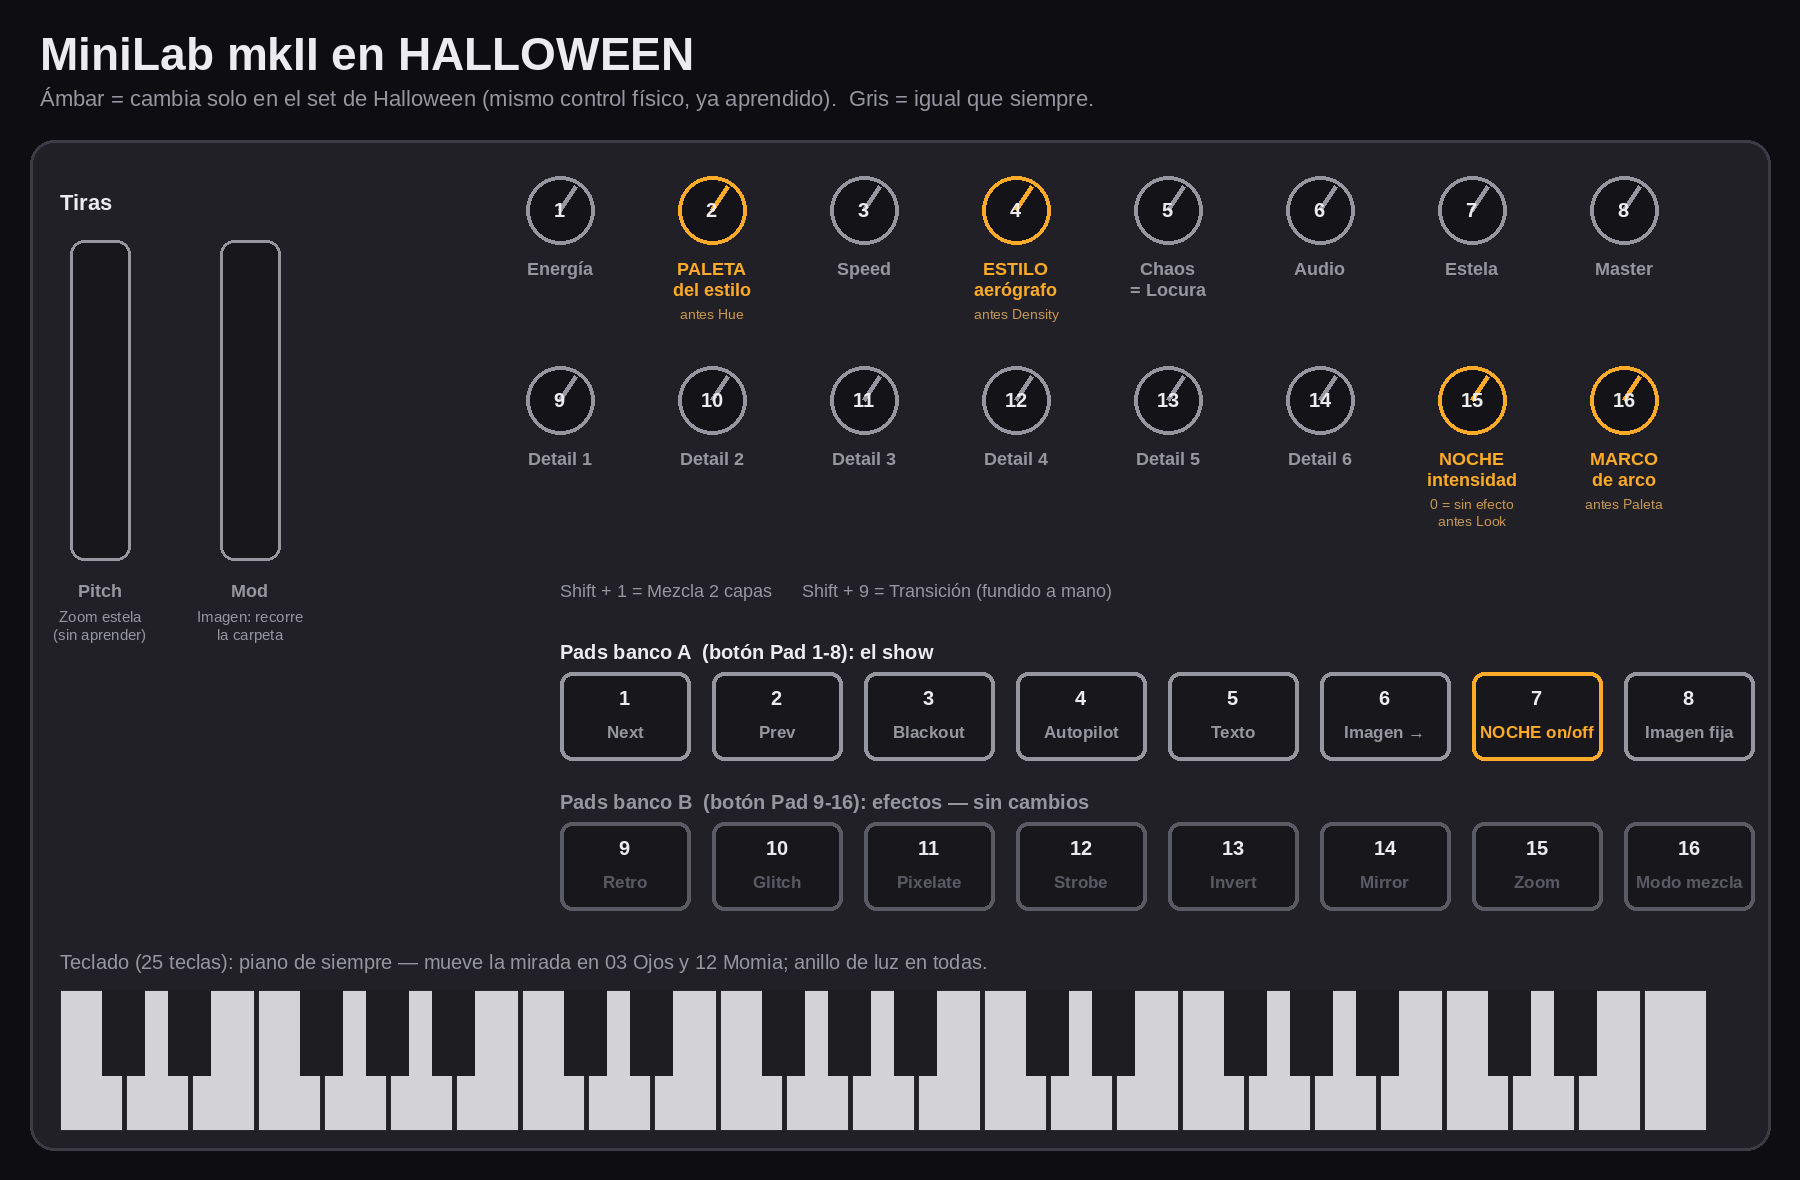
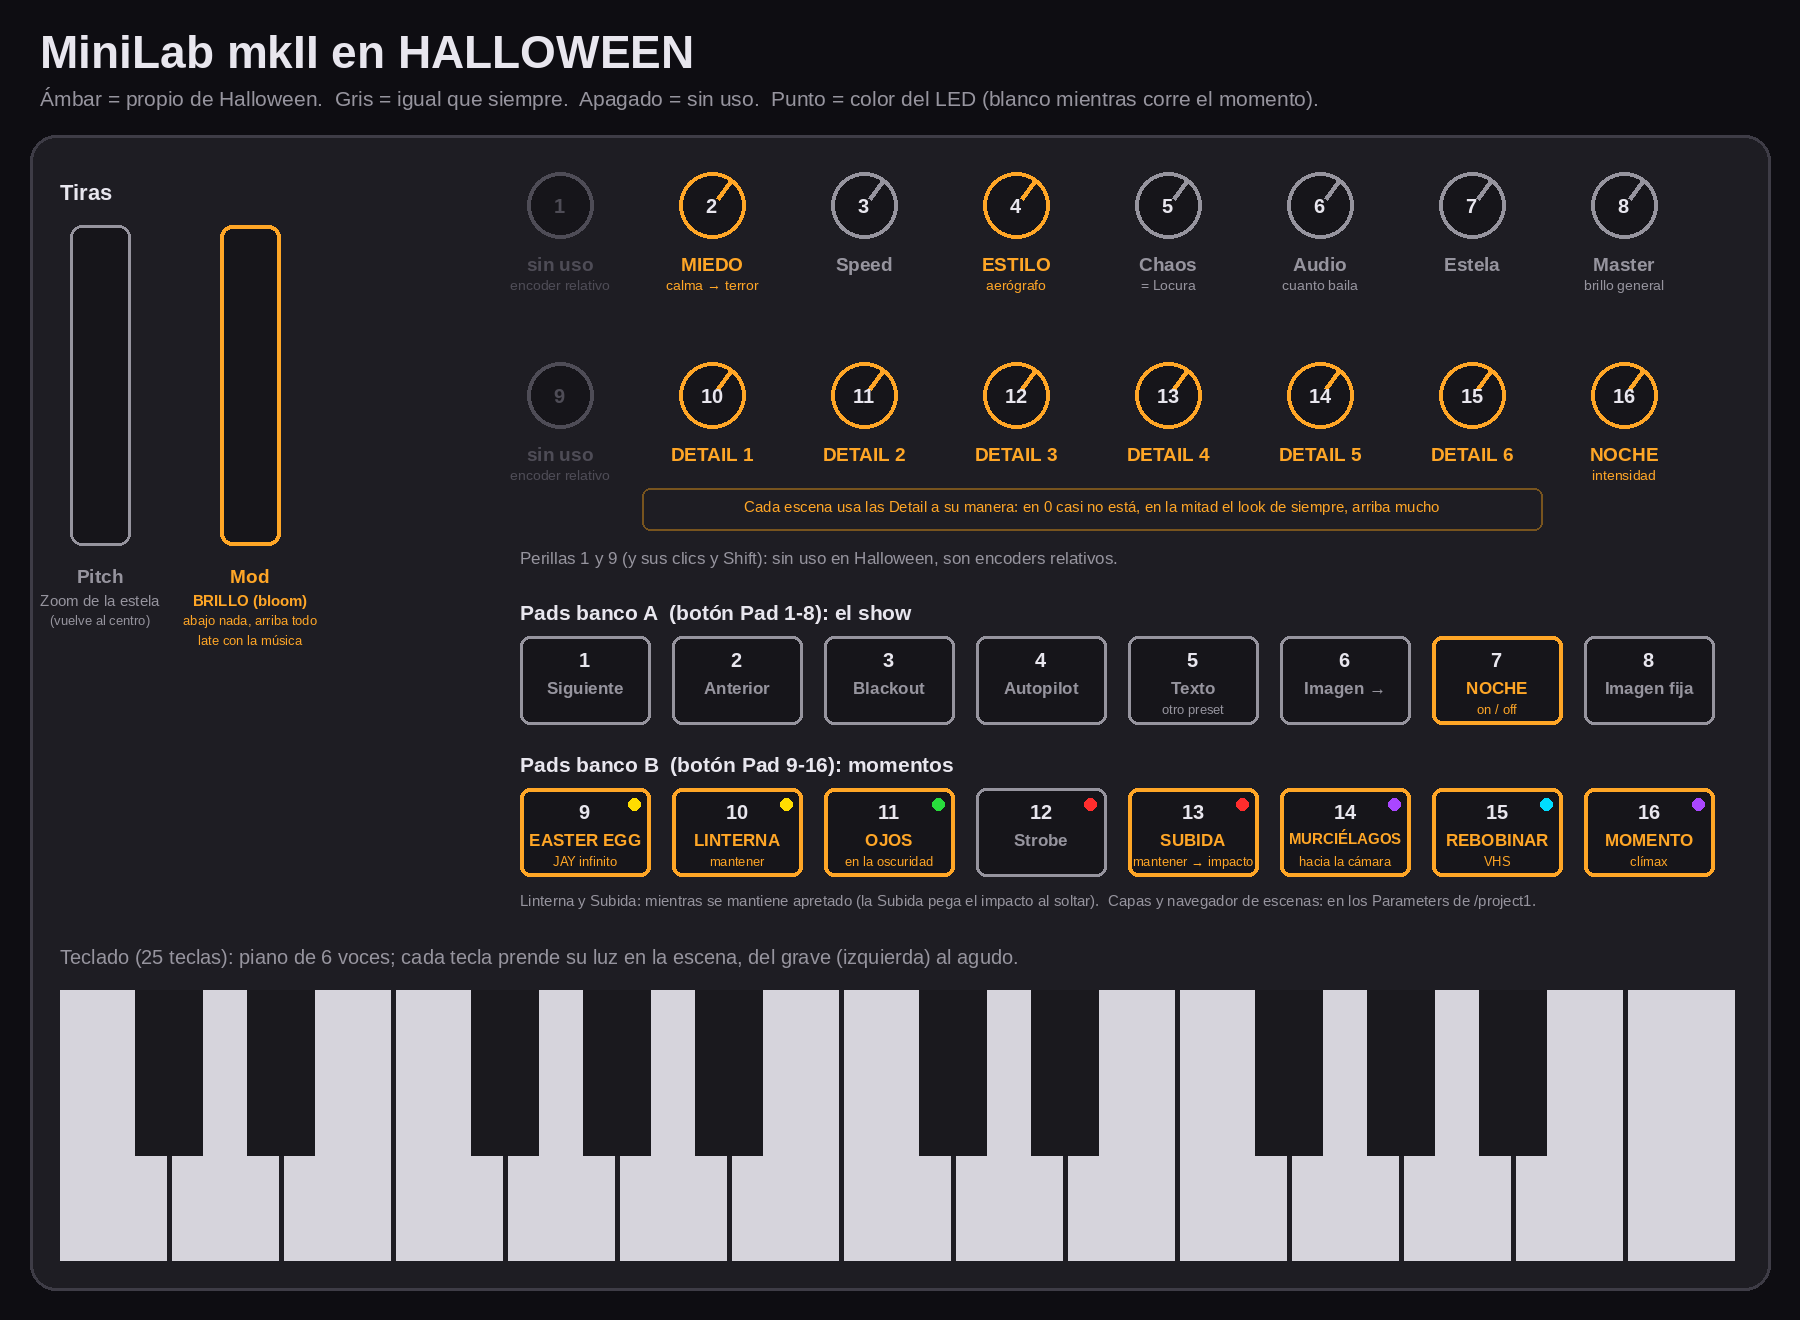
Mapa nuevo del MiniLab en Halloween (render_minilab.py)
Perillas 1 y 9 sin uso, Miedo, Detail 1-6 en 10-15, Noche en 16, tira Mod
= brillo, momentos en los pads 10-15 con el color real de cada LED.

Claude-Session: https://claude.ai/code/session_01NVP2u1MWPb16oy8b6RCqty

diff --git a/td/tools/render_minilab.py b/td/tools/render_minilab.py
@@ -1,0 +1,193 @@
+#!/usr/bin/env python3
+"""Dibuja el mapa del MiniLab mkII para el set de Halloween (fase 49).
+
+    python3 td/tools/render_minilab.py                 # docs/img/minilab_halloween.png
+    python3 td/tools/render_minilab.py salida.png
+
+Lo que dice cada control sale de la tabla de abajo; si cambia
+td/sets/halloween/set.json (midi_redirect), actualizar la tabla y volver a
+correr. test_minilab_halloween.py comprueba el mapeo real.
+"""
+import os
+import sys
+
+from PIL import Image, ImageDraw, ImageFont
+
+HERE = os.path.dirname(os.path.abspath(__file__))
+ROOT = os.path.dirname(os.path.dirname(HERE))
+OUT = os.path.join(ROOT, 'docs', 'img', 'minilab_halloween.png')
+
+# estilo: 'h' = propio de Halloween (ambar), 'n' = igual que siempre (gris),
+# 'x' = sin uso (apagado), 'm' = momento nuevo (ambar con color propio)
+KNOBS_TOP = [
+    (1, 'sin uso', 'encoder relativo', 'x'),
+    (2, 'MIEDO', 'calma → terror', 'h'),
+    (3, 'Speed', '', 'n'),
+    (4, 'ESTILO', 'aerógrafo', 'h'),
+    (5, 'Chaos', '= Locura', 'n'),
+    (6, 'Audio', 'cuanto baila', 'n'),
+    (7, 'Estela', '', 'n'),
+    (8, 'Master', 'brillo general', 'n'),
+]
+KNOBS_BOT = [
+    (9, 'sin uso', 'encoder relativo', 'x'),
+    (10, 'DETAIL 1', '', 'h'),
+    (11, 'DETAIL 2', '', 'h'),
+    (12, 'DETAIL 3', '', 'h'),
+    (13, 'DETAIL 4', '', 'h'),
+    (14, 'DETAIL 5', '', 'h'),
+    (15, 'DETAIL 6', '', 'h'),
+    (16, 'NOCHE', 'intensidad', 'h'),
+]
+PADS_A = [
+    (1, 'Siguiente', '', 'n'),
+    (2, 'Anterior', '', 'n'),
+    (3, 'Blackout', '', 'n'),
+    (4, 'Autopilot', '', 'n'),
+    (5, 'Texto', 'otro preset', 'n'),
+    (6, 'Imagen →', '', 'n'),
+    (7, 'NOCHE', 'on / off', 'h'),
+    (8, 'Imagen fija', '', 'n'),
+]
+# colores de los LEDs en reposo (control_script.padLedColors)
+YELLOW, GREEN, RED, PURPLE, CYAN = (255, 220, 0), (40, 220, 60), (255, 45, 45), (170, 70, 255), (0, 220, 255)
+# (numero, nombre, nota, estilo, color del LED)
+PADS_B = [
+    (9, 'EASTER EGG', 'JAY infinito', 'h', YELLOW),
+    (10, 'LINTERNA', 'mantener', 'm', YELLOW),
+    (11, 'OJOS', 'en la oscuridad', 'm', GREEN),
+    (12, 'Strobe', '', 'n', RED),
+    (13, 'SUBIDA', 'mantener → impacto', 'm', RED),
+    (14, 'MURCIÉLAGOS', 'hacia la cámara', 'm', PURPLE),
+    (15, 'REBOBINAR', 'VHS', 'm', CYAN),
+    (16, 'MOMENTO', 'clímax', 'h', PURPLE),
+]
+
+BG = (14, 13, 18)
+PANEL = (30, 29, 35)
+EDGE = (62, 60, 70)
+GREY = (150, 148, 158)
+DIM = (78, 76, 86)
+TEXT = (232, 230, 238)
+AMBER = (255, 166, 38)
+
+
+def font(size, bold=False):
+    names = ['LiberationSans-Bold.ttf' if bold else 'LiberationSans-Regular.ttf',
+             'DejaVuSans-Bold.ttf' if bold else 'DejaVuSans.ttf']
+    for d in ('/usr/share/fonts/truetype/liberation', '/usr/share/fonts/truetype/dejavu',
+              '/Library/Fonts', '/System/Library/Fonts/Supplemental'):
+        for n in names:
+            p = os.path.join(d, n)
+            if os.path.exists(p):
+                return ImageFont.truetype(p, size)
+    return ImageFont.load_default()
+
+
+def ctext(d, x, y, s, f, fill):
+    w = d.textlength(s, font=f)
+    d.text((x - w / 2, y), s, font=f, fill=fill)
+
+
+def color(kind):
+    return {'h': AMBER, 'm': AMBER, 'n': GREY, 'x': DIM}[kind]
+
+
+def knob(d, x, y, num, name, note, kind):
+    c = color(kind)
+    r = 33
+    d.ellipse((x - r, y - r, x + r, y + r), fill=(22, 21, 26), outline=c, width=4)
+    if kind != 'x':
+        d.line((x + 6, y - 6, x + 19, y - 24), fill=c, width=4)
+    ctext(d, x, y - 11, str(num), font(20, True), TEXT if kind != 'x' else DIM)
+    ctext(d, x, y + 48, name, font(19, True), c)
+    if note:
+        ctext(d, x, y + 72, note, font(14), c if kind != 'n' else GREY)
+
+
+def pad(d, x, y, w, h, num, name, note, kind, led=None):
+    c = color(kind)
+    d.rounded_rectangle((x, y, x + w, y + h), radius=10, fill=(22, 21, 26), outline=c,
+                        width=4 if kind in 'hm' else 3)
+    if led:
+        d.ellipse((x + w - 22, y + 10, x + w - 10, y + 22), fill=led)
+    ctext(d, x + w / 2, y + 12, str(num), font(20, True), TEXT)
+    f = font(17, True)
+    while d.textlength(name, font=f) > w - 14:
+        f = font(f.size - 1, True)
+    ctext(d, x + w / 2, y + 42, name, f, c)
+    if note:
+        ctext(d, x + w / 2, y + 66, note, font(13), c if kind != 'n' else GREY)
+
+
+def main():
+    out = sys.argv[1] if len(sys.argv) > 1 else OUT
+    W, H = 1800, 1320
+    im = Image.new('RGB', (W, H), BG)
+    d = ImageDraw.Draw(im)
+    d.text((40, 26), 'MiniLab mkII en HALLOWEEN', font=font(46, True), fill=TEXT)
+    d.text((40, 86), 'Ámbar = propio de Halloween.  Gris = igual que siempre.  '
+           'Apagado = sin uso.  Punto = color del LED (blanco mientras corre el momento).',
+           font=font(21), fill=GREY)
+    d.rounded_rectangle((30, 135, W - 30, H - 30), radius=26, fill=PANEL, outline=EDGE, width=3)
+
+    # tiras
+    d.text((60, 180), 'Tiras', font=font(22, True), fill=TEXT)
+    for i, (x, name, n1, n2, kind) in enumerate((
+            (100, 'Pitch', 'Zoom de la estela', '(vuelve al centro)', 'n'),
+            (250, 'Mod', 'BRILLO (bloom)', 'abajo nada, arriba todo', 'h'))):
+        c = color(kind)
+        d.rounded_rectangle((x - 30, 225, x + 30, 545), radius=12, fill=(22, 21, 26),
+                            outline=c, width=4 if kind == 'h' else 3)
+        ctext(d, x, 565, name, font(19, True), c)
+        ctext(d, x, 592, n1, font(15, True if kind == 'h' else False), c)
+        ctext(d, x, 613, n2, font(13), c if kind == 'h' else GREY)
+    ctext(d, 250, 633, 'late con la música', font(13), AMBER)
+
+    # perillas
+    x0, dx = 560, 152
+    for i, k in enumerate(KNOBS_TOP):
+        knob(d, x0 + i * dx, 205, *k)
+    for i, k in enumerate(KNOBS_BOT):
+        knob(d, x0 + i * dx, 395, *k)
+    # nota de las Detail
+    d.rounded_rectangle((x0 + dx - 70, 488, x0 + 6 * dx + 70, 530), radius=8,
+                        outline=(120, 84, 30), width=2)
+    ctext(d, x0 + 3.5 * dx, 498,
+          'Cada escena usa las Detail a su manera: en 0 casi no está, en la mitad el look de siempre, '
+          'arriba mucho', font(15), AMBER)
+    d.text((x0 - 40, 548), 'Perillas 1 y 9 (y sus clics y Shift): sin uso en Halloween, son encoders '
+           'relativos.', font=font(17), fill=GREY)
+
+    # pads
+    pw, ph, gap = 130, 88, 22
+    d.text((x0 - 40, 600), 'Pads banco A  (botón Pad 1-8): el show', font=font(21, True), fill=TEXT)
+    for i, p in enumerate(PADS_A):
+        pad(d, x0 - 40 + i * (pw + gap), 636, pw, ph, *p)
+    d.text((x0 - 40, 752), 'Pads banco B  (botón Pad 9-16): momentos', font=font(21, True),
+           fill=TEXT)
+    for i, p in enumerate(PADS_B):
+        pad(d, x0 - 40 + i * (pw + gap), 788, pw, ph, *p[:4], led=p[4])
+    d.text((x0 - 40, 892), 'Linterna y Subida: mientras se mantiene apretado (la Subida pega el '
+           'impacto al soltar).  Capas y navegador de escenas: en los Parameters de /project1.',
+           font=font(15), fill=GREY)
+
+    # teclado
+    d.text((60, 945), 'Teclado (25 teclas): piano de 6 voces; cada tecla prende su luz en la '
+           'escena, del grave (izquierda) al agudo.', font=font(20), fill=GREY)
+    kx, ky, kh = 60, 990, 270
+    kw = (W - 120) / 15.0
+    white = 15
+    for i in range(white):
+        d.rectangle((kx + i * kw, ky, kx + (i + 1) * kw - 6, ky + kh), fill=(214, 212, 220))
+    for i in range(white - 1):
+        if i % 7 in (2, 6):
+            continue
+        bx = kx + (i + 1) * kw - 3 - kw * 0.3
+        d.rectangle((bx, ky, bx + kw * 0.6, ky + 165), fill=(26, 25, 30))
+    im.save(out)
+    print('->', out)
+
+
+if __name__ == '__main__':
+    main()

diff --git a/docs/61_CONTROLES_HALLOWEEN.md b/docs/61_CONTROLES_HALLOWEEN.md
@@ -2,6 +2,10 @@
 
 Las perillas **1 y 9** del MiniLab (y sus clics y Shift) son encoders relativos: mandan pasos (+1/−1 alrededor de 64) y TouchDesigner solo avisa cuando el valor cambia, así que no se pueden leer como posición. En Halloween quedan **sin función** (en el set principal siguen como siempre). El resto se reacomodó así (`td/sets/halloween/set.json` → `midi_redirect`):
 
+![MiniLab en Halloween](img/minilab_halloween.png)
+
+Mapa: `docs/img/minilab_halloween.png` (`python3 td/tools/render_minilab.py`; si cambia el `midi_redirect`, actualizar su tabla y volver a correr).
+
 ## Perillas
 
 | Perilla | Función |
